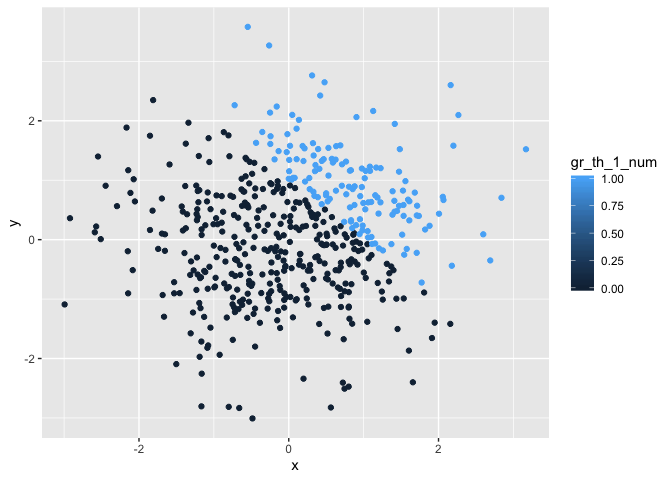
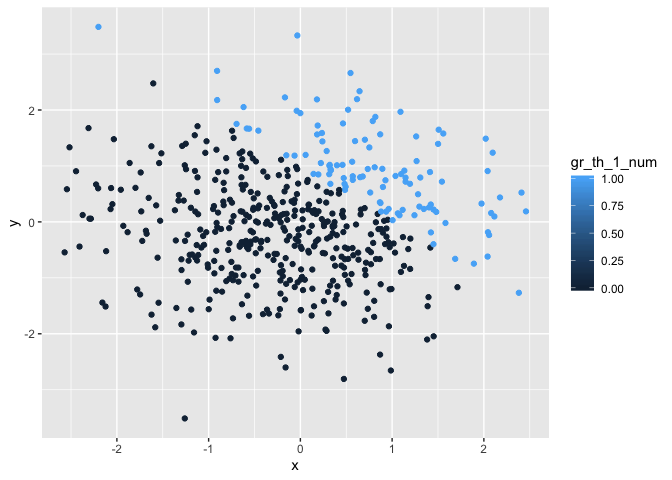
added ggsave code to export the first scatterplot using the logical variable for color points as a pdf to the project directory

diff --git a/p8105_hw1_lk2761.md b/p8105_hw1_lk2761.md
@@ -25,13 +25,13 @@ Now I will take the mean of each variable in the data
 mean(pull(sample_df, sample))
 ```
 
-    ## [1] 0.1657814
+    ## [1] -0.08020953
 
 ``` r
 mean(pull(sample_df, gr_th_0)) 
 ```
 
-    ## [1] 0.75
+    ## [1] 0.5
 
 ``` r
 mean(pull(sample_df, vec_char_8))
@@ -99,8 +99,8 @@ gr_th_0_numeric = as.numeric(pull(sample_df, gr_th_0))
 gr_th_0_numeric*pull(sample_df, sample)
 ```
 
-    ## [1] 1.67192031 0.05900007 0.05612815 0.00000000 0.28703006 0.00000000
-    ## [7] 0.48910481 0.06163721
+    ## [1] 0.00000000 0.98411978 0.05433742 0.78624800 0.00000000 0.78546448
+    ## [7] 0.00000000 0.00000000
 
 ``` r
 gr_th_0_factor = as.factor(pull(sample_df, gr_th_0))
@@ -118,8 +118,8 @@ gr_th_0_numeric_2 = as.numeric(gr_th_0_factor_2)
 gr_th_0_numeric_2*pull(sample_df, sample)
 ```
 
-    ## [1]  3.3438406  0.1180001  0.1122563 -0.7485379  0.5740601 -0.5500314
-    ## [7]  0.9782096  0.1232744
+    ## [1] -0.3407867  1.9682396  0.1086748  1.5724960 -0.2084903  1.5709290
+    ## [7] -1.4713417 -1.2312272
 
 ## Problem 2
 
@@ -140,11 +140,11 @@ plot_df = tibble(
 
 The size of the dataset is 500 by 5.
 
-The mean of x is 0.0289752.
+The mean of x is -0.090815.
 
-The median of x is 0.0384616.
+The median of x is -0.0545494.
 
-The standard deviation of x is 1.0230525.
+The standard deviation of x is 0.9685685.
 
 This code chunk makes a scatterplot of y
 vs. x.
@@ -154,6 +154,12 @@ ggplot(plot_df, aes(x = x, y = y, color = gr_th_1)) + geom_point()
 ```
 
 ![](p8105_hw1_lk2761_files/figure-gfm/create%20scatterplot-1.png)<!-- -->
+
+``` r
+ggsave("hw1_scatterplot_lk2761.pdf", plot = last_plot())
+```
+
+    ## Saving 7 x 5 in image
 
 ``` r
 ggplot(plot_df, aes(x = x, y = y, color = gr_th_1_num)) + geom_point()
